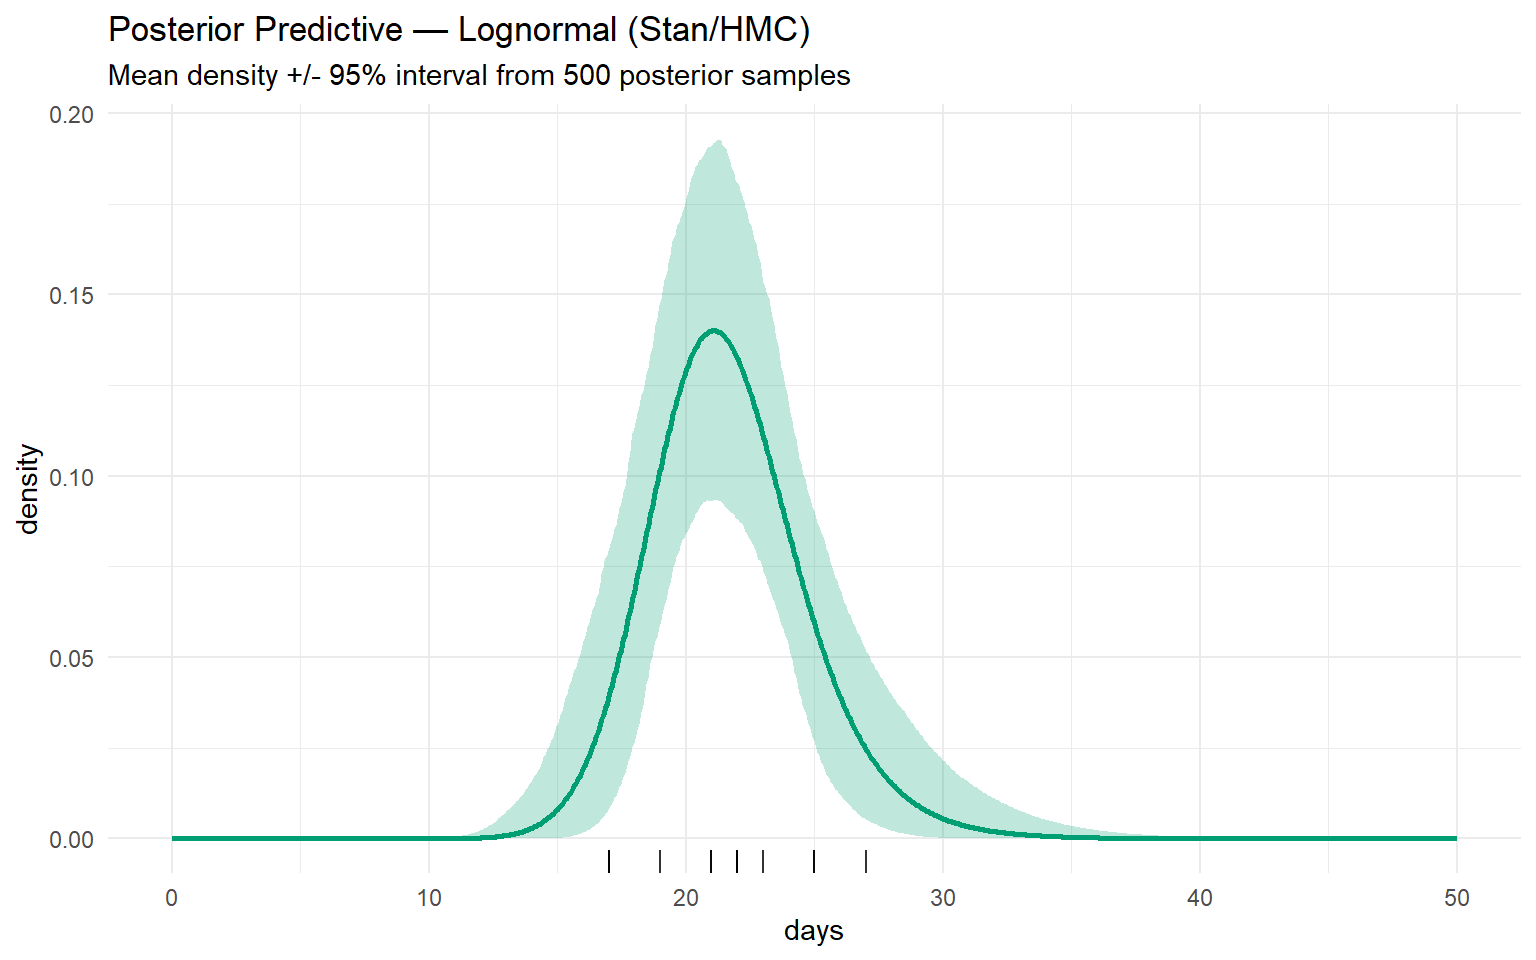
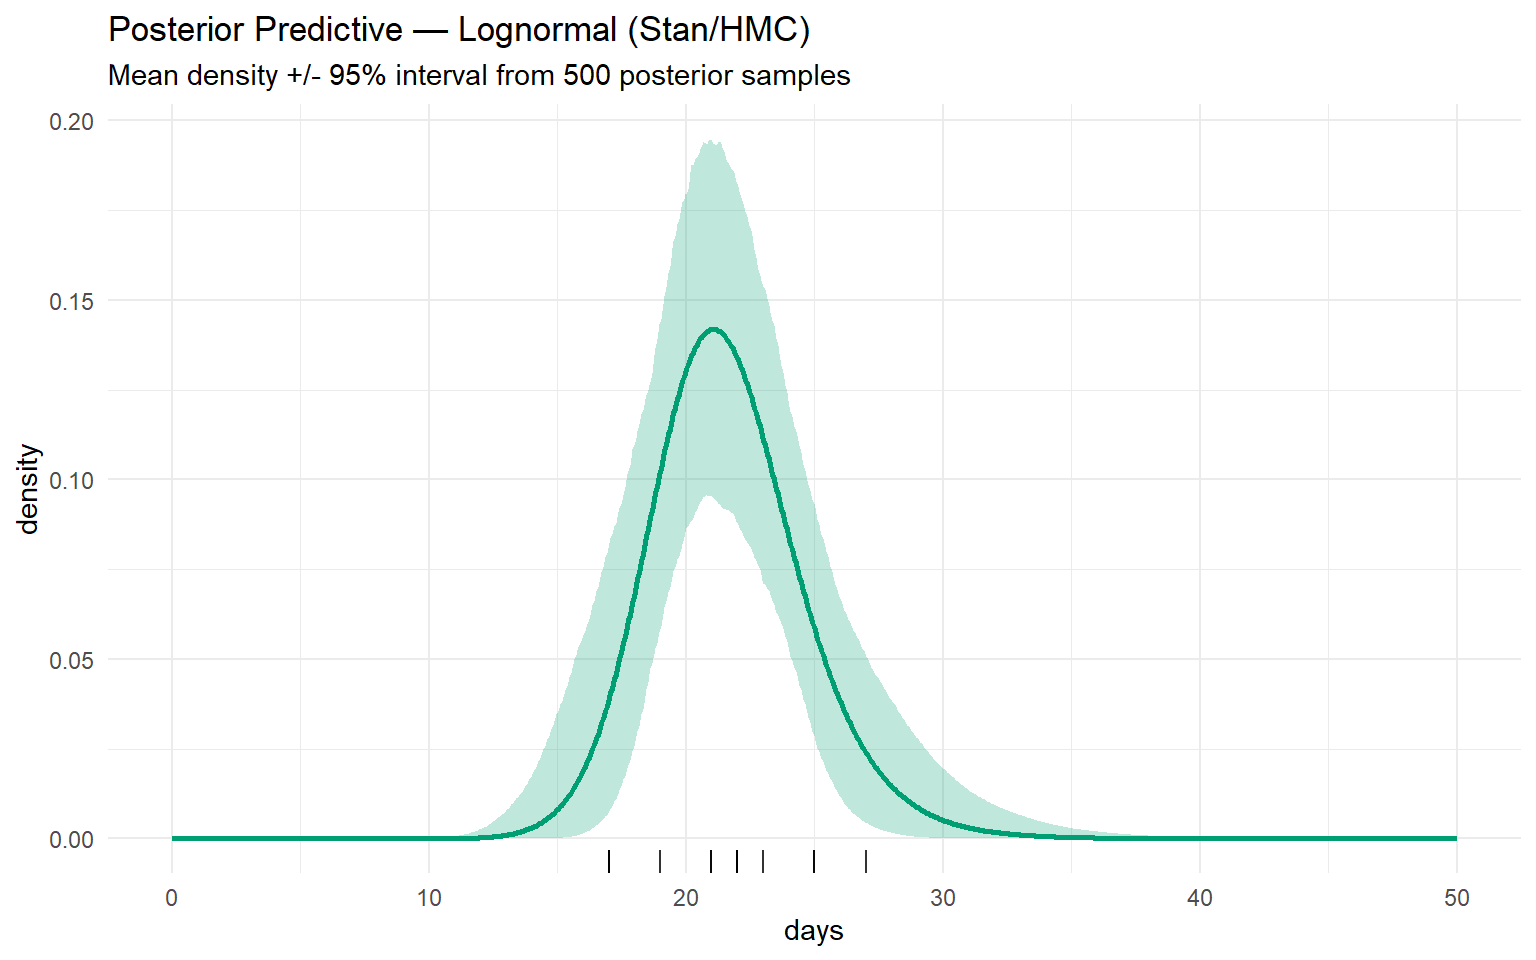
Update hardcoded paths after moving project out of OneDrive

diff --git a/docs/Grey_Comparative.html b/docs/Grey_Comparative.html
@@ -582,7 +582,7 @@ snapshot_cols &lt;- rev(snapshot_cols)</code></pre>
 (person-to-person spread possible). Three representative snapshots are
 selected by cumulative case percentage of the final total (targets:
 ~20%, 50%, 80%).</p>
-<pre class="r"><code>wd &lt;- &quot;d:/RA/Listeria/data mdy&quot;
+<pre class="r"><code>wd &lt;- &quot;d:/Projects/RA/Listeria/data mdy&quot;
 files &lt;- list.files(wd, pattern = &quot;\\.csv$&quot;, full.names = FALSE)
 
 listeria &lt;- map_df(

diff --git a/docs/Grey_Comparative_v2.html b/docs/Grey_Comparative_v2.html
@@ -767,7 +767,7 @@ bong_gt_date    &lt;- df_bongkrek$Date</code></pre>
 Snapshot <code>091211A</code> (Sep 12, 2011) is the
 <strong>input</strong>; <code>082712A</code> (Aug 27, 2012) is the
 <strong>ground truth</strong> (final report).</p>
-<pre class="r"><code>wd &lt;- &quot;d:/RA/Listeria/data mdy&quot;
+<pre class="r"><code>wd &lt;- &quot;d:/Projects/RA/Listeria/data mdy&quot;
 
 read_snap &lt;- function(fname) {
   read_csv(